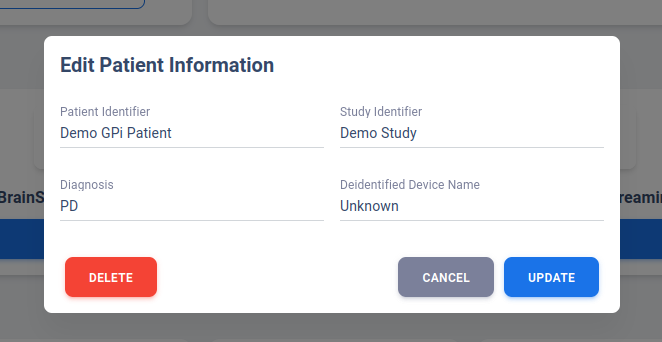
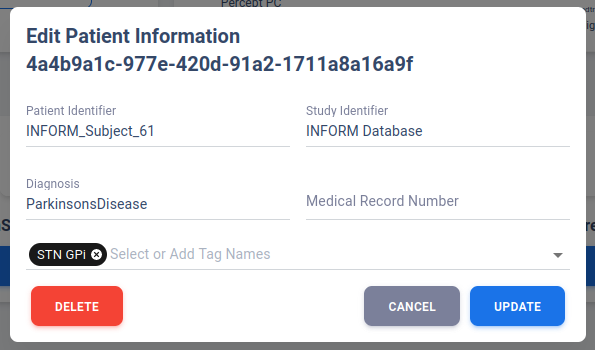
Update Usage Documentation for Essential Functions

diff --git a/docs/usage.rst b/docs/usage.rst
@@ -43,7 +43,6 @@ As a demo web application, no verification will be used on the registration emai
 Feel free to use made-up email address to register. 
 In addition, no "Clinician" nor "Admin" accounts are created for the demo application. 
 
-
 Account Sign-In
 ~~~~~~~~~~~~~~~~~~~~~~~~~~~~~~~~~~~~~~~~~~~~~
 
@@ -64,11 +63,20 @@ Patient Table
 Patient Table is the first interface available to the user once logged in. 
 A typical patient table containing more than 200 patients is shown below.
 
-The clinician view will display patient's name, diagnosis, device name (and type of neurostimulator), 
-and last accessed session file for each patient. A search bar is available to user (top right of the table). 
-Filterable keywords include 1) Name, 2) Diagnosis, and 3) Device Name.
+.. image:: images/PatientTable.png
+  :target: images/PatientTable.png
+  :width: 800
 
-In a de-identified "Researcher" account view, fields are mostly leave as blank if user didn't provide any information (Figure 2.2). 
+The clinician view will display patient's name, diagnosis, device name, 
+and last accessed session file for each patient. A search bar is available to user (top right of the table). 
+Filterable keywords include 1) Name, 2) Diagnosis, and 3) Device Name. 
+
+.. admonition:: Development
+  
+  The Patient Table also contains tagging system, where user may assign tags to each study participants in `Edit Patient Information`_ page. 
+  The tags will also be used for filtering.
+
+In a de-identified "Researcher" account view, fields are mostly leave as blank if user didn't provide any information. 
 It is up to the researcher to properly label each deidentified patient to avoid confusion. 
 Details on how to create a deidentified patient will be discussed in Reference `Upload Deidentified Patient`_ section. 
 Details on how to edit an existing patient's information will be discussed in Patient Overview section.
@@ -89,12 +97,14 @@ All files in the upload box will be associated with the specific deidentified pa
 Once clicking ``Upload``, a new row will be insert to the deidentified patient table. 
 If this patient has multiple device, follow instruction in Upload JSON Files (Research Only) to add new devices or additional JSON files. 
 
-User may also opt to use the Batch Upload option (Work In Progress) with identified JSON file. 
+User may also opt to use the Batch Upload option with identified JSON file. 
 The server will deidentify all identified file based on a simple encrypted lookup table upload by the user. 
 
 .. image:: images/BatchDeidentificationUpload.png
   :target: images/BatchDeidentificationUpload.png
   :width: 400
+
+More details on the encrypted lookup table can be found in `Patient Lookup Table`_ section. 
 
 Upload Identified Patient (Clinician Account)
 ~~~~~~~~~~~~~~~~~~~~~~~~~~~~~~~~~~~~~~~~~~~~~~~
@@ -107,6 +117,47 @@ exported from Percept Neurostimulator.
 The primary health information extracted are based on 1) Patient First and Last Name, 
 and 2) Device Serial Number. Data aggregation is based primarily on Device Serial Number, 
 and Patient Identifiers are used to determine if multiple devices belong to the same patient or not. 
+
+Patient Lookup Table
+---------------------------------------------
+
+The Patient Lookup Table tab is a route only available on "Researcher Account". 
+By the default, the page will only tell user if there is an existing Lookup Table on the server for your account or not.
+
+.. image:: images/DeidentificationTable.png
+  :target: images/DeidentificationTable.png
+  :width: 400
+
+If a table does not exist or you wish to update the table, you can use the "Add Table Here" option, which will bring up the 
+upload dialog like below: 
+
+.. image:: images/DeidentificationTableUploadDialog.png
+  :target: images/DeidentificationTableUploadDialog.png
+  :width: 400
+
+In the upload dialog, you must enter a secure passcode for your lookup table because your lookup table will contain PHI. 
+To ensure maximum security. your passkey will not be stored on the server and if you lost your passkey, your lookup table 
+will be permenantly unusable. In such event, if you have the original table, you may choose to upload it again and overwrite the previous table. 
+
+The minimum length of the passcode must be 4-character long. 
+
+The lookup table must follow a standard CSV formatting, with the following require columns: 
+
+1. patient_deidentifier, which will be used as Patient ID (FirstName) for deidentification 
+2. study_deidentifier, which will be used as Study ID (LastName) for deidentification
+3. identifier, which is the PHI composed of patient {First Name} {Last Name} {MRN} as recorded in the Percept Tablet. 
+4. tags, which will be used to insert initial tags for the patient generated (Unavailable at the moment). 
+
+Each patient_deidentifier and study_deidentifier combo may have multiple different identifier if the patient's name changed or that
+different devices have different information stored. This identifier will be independent of the actual device ID. 
+
+Once the table is uploaded, you can view the uploaded table using "Decrypt Table Here" option, which will attempt to parse the 
+table using a password you provided. Error will be returned if password is incorrect. The viewing option is a once-only occurance and 
+user must reenter the password when the page is refreshed. 
+
+.. image:: images/DeidentificationTableView.png
+  :target: images/DeidentificationTableView.png
+  :width: 800
 
 Patient Overview 
 ---------------------------------------------
@@ -122,14 +173,12 @@ These information will be automatically populated as long as they are not remove
 
 .. image:: images/PatientOverview.png
   :target: images/PatientOverview.png
-  :width: 400
+  :width: 800
 
-.. note:: 
+.. admonition:: Future Updates
 
-  **Future Updates**:
-
-  Device Type only support Medtronic Percept PC device in Research View. 
-  However, the JSON files obtained from Activa SC, PC, or RC are parsible with the platform. Additional supported devices will be included as we obtained more data.
+  Device Type only support Medtronic Activa SC, PC, RC or Percept PC device in Research View. 
+  Additional supported devices will be included as we obtained more data.
 
 Edit Patient Information
 ~~~~~~~~~~~~~~~~~~~~~~~~~~~~~~~~~~~~~~~~~~~~~~~
@@ -142,25 +191,29 @@ then click ``UPDATE`` will prompt a database update.
   :target: images/EditPatientInformation.png
   :width: 400
 
-Clicking ``DELETE`` will prompt user to confirm if they want to remove all data associated with this patient ID. 
+Clicking ``DELETE`` will remove all data associated with this patient ID. 
 
 .. _Upload JSON Files:
 
-Upload JSON Data (Research-Only) [NOT IMPLEMENTED IN 2.0]
+Upload JSON Data (Research-Only)
 ~~~~~~~~~~~~~~~~~~~~~~~~~~~~~~~~~~~~~~~~~~~~~~~~~~~~~~~~~~~~~~~
 
-Here is where the Research account should upload their data. 
+.. image:: images/ResearchUploadJSON.png
+  :target: images/ResearchUploadJSON.png
+  :width: 400
+
+"Upload New Sessions" is where the Research account should upload their data. 
 Unlike Clinician account, the Research account is assumed to be working with deidentified files. 
 That means the PHI used to group uploaded JSON into respective Patient ID or Device ID will not be present 
 in the uploaded JSON files. This additional process required by the Research account ensure we can properly 
 manage the data and organize them in correct group. 
 
-After initial deidentified patient creation in Deidentified Patient Table , the patient overview will be shown 
-without any associated device. The user may manually add a Percept PC device via "Add Device" in Red Box 1 of Figure 3.3. 
-The fields can all be leave as blank, a fake device ID will be generated in place with most information unavailable to the user. 
-Once generated, look at the device table and you will see "Upload" in Red Box 3 of Figure 3.3. 
-The user then can upload one or more files associate with that device. If a patient is using bilateral Percept Device, 
-the user should create a second blank device and upload files separately. 
+After initial deidentified patient creation in Dashboard, the patient overview will be shown 
+without any associated device. The user may manually add a device via "New Device" in "Device to Upload To" dropdown menu.
+The user then can upload one or more files associate with that device. It is recommended to change device name after it is done by using the 
+"Pen" icon on the right side of Device Table. 
+
+If a patient is using bilateral Percept Device, the user should create a second "New Device" and upload files separately. 
 
 Primary Analysis Navigations 
 ~~~~~~~~~~~~~~~~~~~~~~~~~~~~~~~~~~~~~~~~~~~~~~~~~~~~~~~~~~~~~~~
@@ -181,6 +234,8 @@ Primary Analysis Navigations
     - Another form of Realtime Streaming, based on simultaneous multi-channel streaming without stimulation. 
   * - `Chronic Brainsense`_
     - Aggregated BrainSense Power recording recorded chronically when patient is using BrainSense-enabled therapy group.  
+  * - `Session Overview`_
+    - All Session JSON files uploaded to this patient. Also where EMR document can be generated. 
       
 .. _Therapy History:
 
@@ -225,6 +280,9 @@ The therapy information is displayed in 5 columns:
   3. Therapy configurations 
   4. BrainSense Configurations
   5. Cycling Stimulation configurations
+
+When cursor hover over Therapy Active Contacts for a sensight lead, the individual contact amplitude for segmented electrode will 
+be display as a tooltip. However, the individual segment amplitude is information stored only in Pre-visit Therapy and Post-visit Therapy. 
 
 .. warning::
 
@@ -425,8 +483,6 @@ Each sample contains a timestamp, a LFP measurment (integer, arbituary unit), an
   :target: images/Chronic LFP.png
   :width: 800
 
-
-
 .. note::
 
   It is important to note that ``DiagnosticData.LFPTrendLogs`` doesn't contain any important therapeutic information 
@@ -510,3 +566,24 @@ Event Power Spectrum
 Patient Events that contains PSDs will be averaged within group and compare to other events. 
 The shaded area is one standard-error from mean.
 Number of sample is usually different from event-locked power trend because not every recorded event contain PSD snapshot. 
+
+.. _Session Overview:
+
+Session Overview View
+---------------------------------------------
+
+.. image:: images/SessionOverviewPage.png
+  :target: images/SessionOverviewPage.png
+  :width: 800
+
+The session overview page will display the device name and date at which the JSON session is recorded. 
+The list is organized by time with the oldest session first. 
+The table will display all the unique data extracted from the session JSON file and the source JSON filename. 
+
+Using "Format for EMR" option can generate a simple table listing basic therapeutic information in the session JSON file 
+such as shown below
+
+.. image:: images/SessionSummary.png
+  :target: images/SessionSummary.png
+  :width: 800
+
